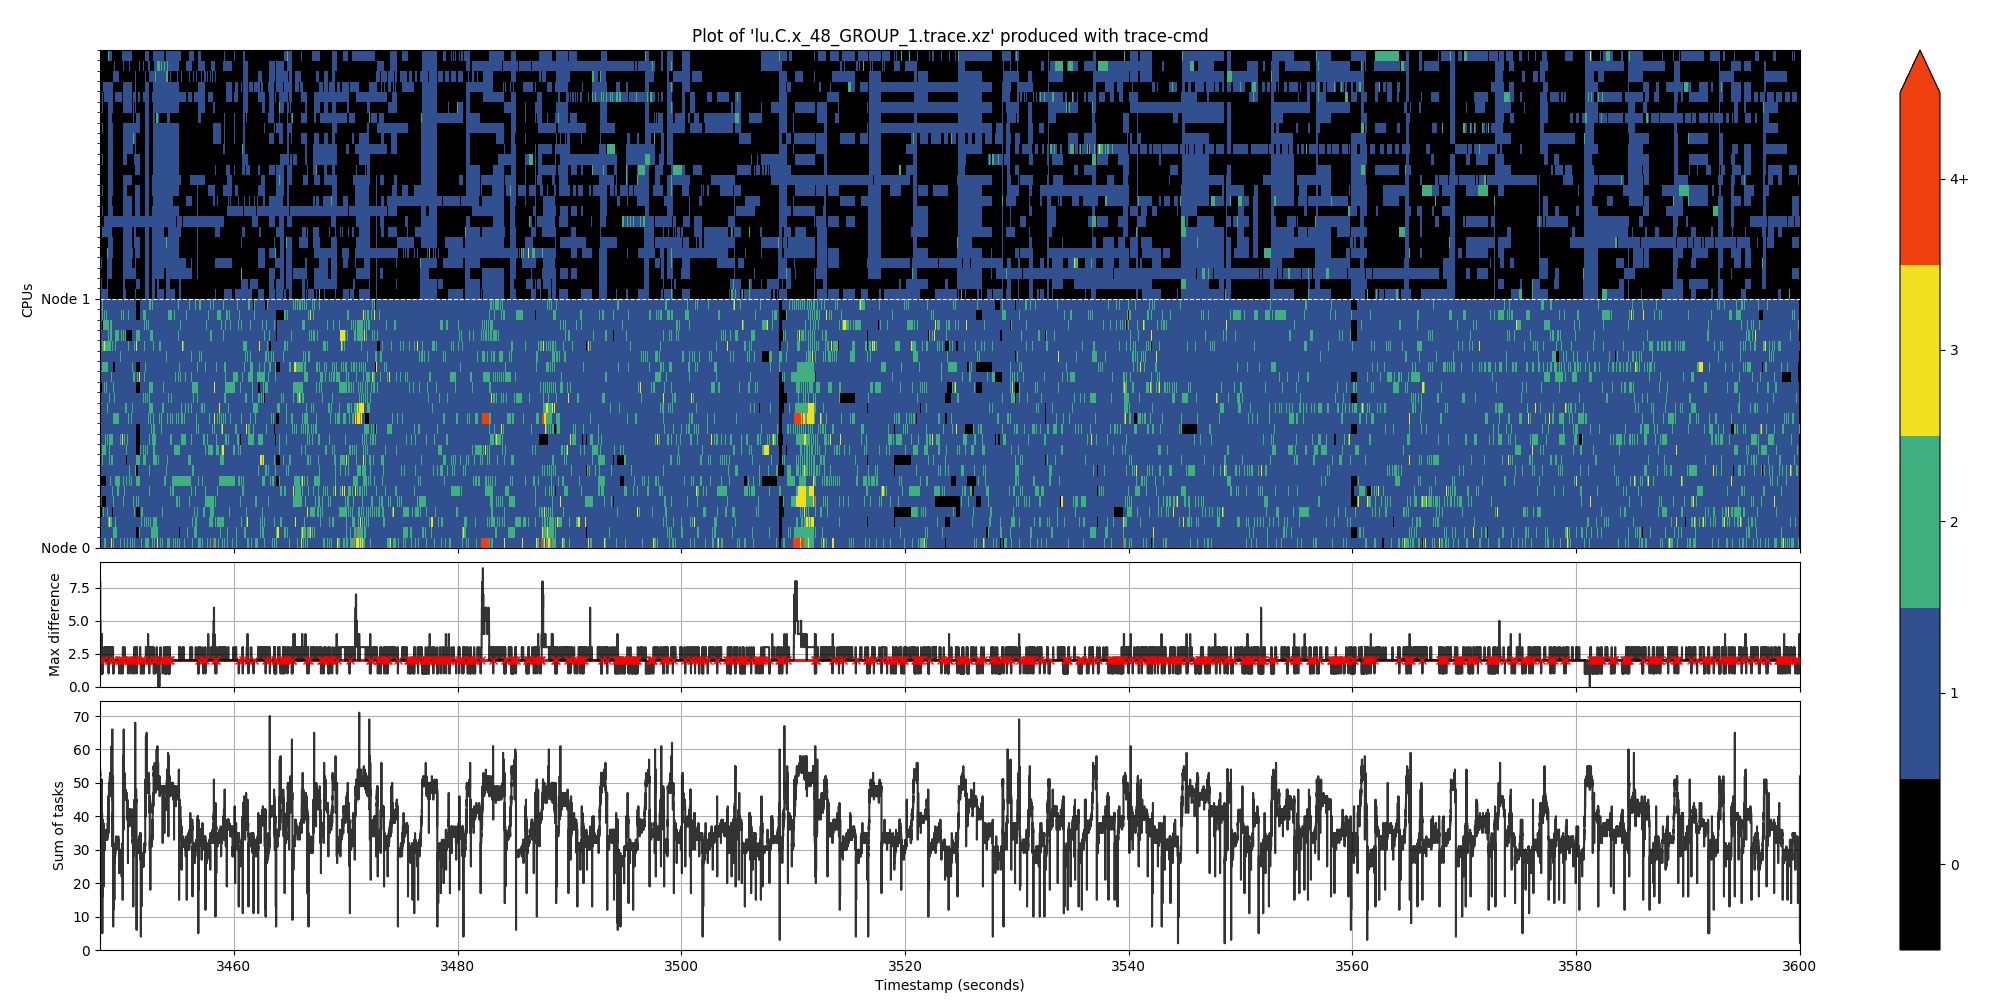
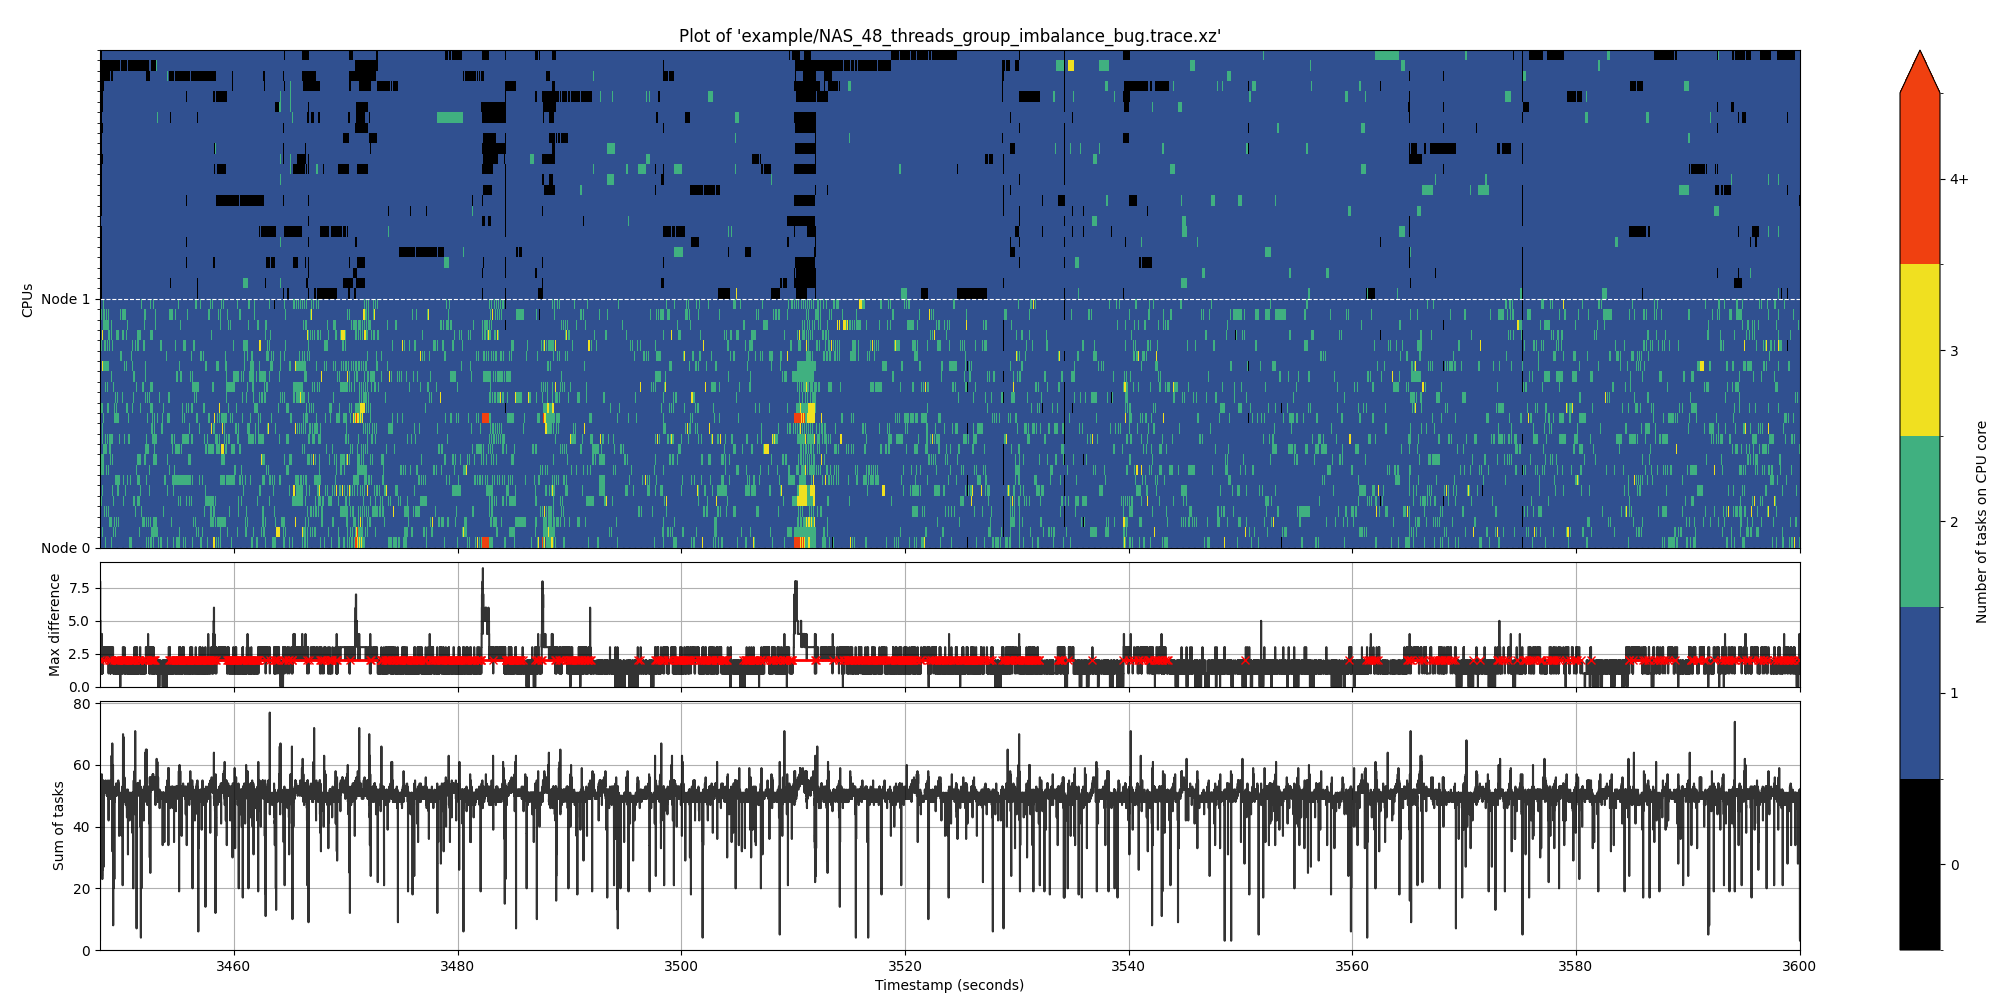
Update README and regenerate example image
Document current options, imbalance definition and other scripts, fix
the example command path. Regenerate the example image with the fixed
script.

diff --git a/README.md b/README.md
@@ -28,24 +28,49 @@ trace-cmd report | ./plot-nr-running.py
 ```
 Other optional arguments can be viewed using `--help` arguments:
 ```
-  --sampling SAMPLING   Sampling of input data to reduce drawing time - takes
-                        each N-th line of input file. Is applied before time
-                        sampling.
+  --sampling SAMPLING   Sampling of plotted data to reduce drawing time -
+                        takes each N-th event. Is applied before time
+                        sampling. Imbalances are always searched on all
+                        events.
   --time-sampling TIME_SAMPLING
-                        Reduce input data to N records per core per second to
-                        shorten drawing time. Is applied after input sampling.
+                        Reduce plotted data to N records per second to shorten
+                        drawing time. Is applied after input sampling.
   --threshold THRESHOLD
                         Minimal difference of process count considered as
                         imbalance
   --duration DURATION   Minimal duration of imbalance worth reporting
   --image-file IMAGE_FILE
-                        Save plotted heatmap to file instead of showing
+                        Save plotted heatmap to this file. Defaults to
+                        INPUT_FILE.png, the heatmap is shown in a window when
+                        reading from stdin.
   --lscpu-file LSCPU_FILE
                         File with output of lscpu from observed machine
+  --name NAME           Filename to be displayed in graph. Usefull when
+                        reading input from stdin.
+  --title TITLE         Title of the graph. Overrides --name.
 ```
+
+Imbalance is a period when the difference between the most and the least
+loaded CPU is at least `--threshold` tasks for at least `--duration` seconds.
+CPUs without any event in the trace are considered idle.
+
+Some older kernels record the `change` field of the event unsigned. The
+scripts detect it and print a note, as the number of tasks before the first
+event of each CPU cannot be determined exactly in that case.
+
+## Other scripts
+* `check-nr-running.py` reports per-CPU and per-NUMA-node utilization and
+  checks the trace for missed events.
+* `compare-nr-running.py` plots two trace reports above each other, aligned
+  to their first event.
+* `plot-nr-running.sh` and `plot-nr-running_batch.sh` process many trace
+  reports at once. They exit with non-zero code when any of them fails.
+* `plot-ps.py` and `plot-mpstat.py` plot thread placement from periodic `ps`
+  output and CPU utilization from `mpstat -P ALL` (and `mpstat -N ALL` with
+  `--dual`).
 
 ## Example
 ```bash
-./plot-nr-running.py --lscpu-file example/lscpu.txt --image-file NAS_48_threads_group_imbalance_bug.png NAS_48_threads_group_imbalance_bug.trace.xz
+./plot-nr-running.py --lscpu-file example/lscpu.txt --image-file example/NAS_48_threads_group_imbalance_bug.png example/NAS_48_threads_group_imbalance_bug.trace.xz
 ```
 ![Example report](example/NAS_48_threads_group_imbalance_bug.png)
